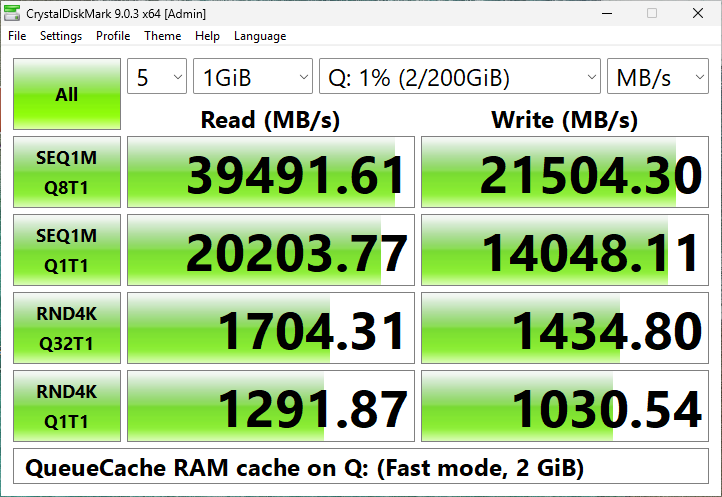
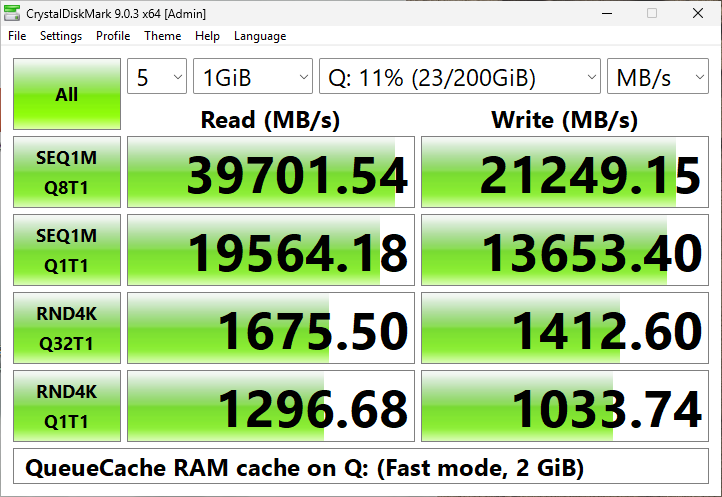
Record the plan 120 final regression and re-measure the README cache column
The final release-performance regression on 0.4.604.1 completed 11/11 phases
and 106/106 cases. CrystalDiskMark on Q: was re-measured in one session with
the new and the old read bookkeeping, together with the uncached column.

diff --git a/docs/PERFORMANCE_FINDINGS.md b/docs/PERFORMANCE_FINDINGS.md
@@ -201,6 +201,35 @@ Accepted and on by default from plan 120 (copy flags 7). Runs:
 per-block lookups that confirm a version is still current remain; removing them
 would change which reads are offloaded or which versions are touched.
 
+**CrystalDiskMark** (0.4.604.1, the README procedure, one session, MB/s). Copy
+flags 7 in three runs: SEQ1M Q8T1 read 38,945 / 39,702 / 39,707, SEQ1M Q1T1
+19,825 / 19,564 / 19,887. One run with the old bookkeeping (`lab-copy-flags Q: 3`)
+between them: 38,645 and 18,962. CrystalDiskMark therefore shows about +3% at
+Q8T1 and +4.5% at Q1T1; its five-second passes include file opening and the
+first touches, which the 10-second DiskSpd windows above exclude. The README
+cache column (39,702 read, run 2) matches the 0.4.476.1 run two days earlier
+(39,492): that earlier evening was simply faster, so cross-day CrystalDiskMark
+numbers say nothing about a change.
+
+**Final regression.** Signed 0.4.604.1 (final source; drivers loaded and
+Verifier off), lean `release-performance`, one command: **COMPLETED 11/11 phases,
+106/106 cases, 1 h 47 min 34 s, restored**, run
+`QueueCache-Campaign-20261011-223323-2aa3fb80bfdd4040ad56e7a601f3d09a`. All 118
+retained correctness sub-checks pass. Of 2,265 owned process exits one is
+non-zero: the first final inspection found Q: still writing back, and the
+plan-120 retry found it clean on the next attempt. Against PR #9's final run
+(0.4.583.1, the same day, same DiskSpd, same analysis): the RAM reference is
+unchanged within run-to-run variation (Direct 1M Q8T1 median 43,845 against
+44,215 MiB/s, Q1T1 24,434 against 24,668, Q2T4 36,067 against 37,818; the RAM-disk
+driver did not change). Cached 4K random reads at Q8 in the map-cost phase have a
+median of 381,055 against 369,516 IOPS (+3.1%); cache recall hits are within 1%.
+The write matrix's cached cells are 0.8–4.2% lower at Q1 and RND4K Q32 and between
+−0.6% and +2.2% at SEQ1M Q8. Plan 120 changed only the driver's read path, so
+these write differences are run-to-run variation (see the
+[measurement rules](#measurement-rules) on cross-run comparisons). The 30-minute
+sustained phase ran at 2,709–2,990 IOPS against PR #9's 1,415–2,837, following
+the Ceph storage below Q:.
+
 ## Which changes belong together
 
 | Stage | Changes retained | Evidence and limits |
@@ -749,7 +778,7 @@ running again. Private evidence and lab files remain preserved.
 
 ## Recorded verification time
 
-These selected completed runs total approximately **6 hours 2 minutes**. This
+These selected completed runs total approximately **8 hours 38 minutes**. This
 is measured run time, not a reconstruction of all engineering work or every
 earlier investigation. Installation/restarts, CI, coding, analysis, incomplete
 attempts and inactive conversation gaps add time. The NTFS/ReFS gap from 04:54
@@ -779,6 +808,13 @@ to 06:55 was not two hours spent executing that benchmark.
 | Plan-119 revision comparison, 18 windows | 8 min 52 s |
 | Plan-119 lifecycle checks, with / without Driver Verifier | 1 min 10 s / 55 s |
 | Final `release-performance` regression, 11 phases / 106 cases | 1 h 56 min 23 s |
+| Plan-120 cached-read attribution, 18 windows | 9 min 45 s |
+| Plan-120 RAM write reference, 36 windows | 6 min 43 s |
+| Plan-120 streaming-store comparison, 18 windows | 5 min 30 s |
+| Plan-120 read-bookkeeping comparison, 18 windows | 9 min 57 s |
+| Plan-120 Driver Verifier campaign with `stress-races`, 6 phases | 10 min 56 s |
+| Plan-120 `stress-races` without Verifier | 5 min 55 s |
+| Plan-120 final `release-performance` regression, 11 phases / 106 cases | 1 h 47 min 34 s |
 
 The original priority run's main scores total about six minutes within its nineteen-minute
 run. Preparation, residency proofs, warmup, worker/process ownership and
@@ -803,7 +839,10 @@ at start because Q: still had unwritten data, and the first final regression,
 which stopped after 33 minutes in the sustained phase: a 197 GB resident reread
 saw six background metadata reads (4.5 KiB) on Q:, most likely the Everything
 file indexer that had restarted at sign-in. Everything and Steam were closed and
-the complete regression rerun passed.
+the complete regression rerun passed. Plan 120 adds the first RAM write reference run
+(stopped by its oracle rewrite bug), 13 stress, Verifier and stale-data diagnosis
+runs that found and fixed the issues described under
+[correctness qualification](#correctness-qualification), and their recoveries.
 
 ## Current decisions and when to repeat tests
 

diff --git a/README.md b/README.md
@@ -76,7 +76,7 @@ machine's physical RAM.
 
 [CrystalDiskMark](https://crystalmark.info/en/software/crystaldiskmark/) 9.0.3,
 default test (1 GiB, 5 passes), the better of two runs per column. Both Q: columns:
-QueueCache 0.4.476.1; RAM disk column: QueueCache 0.4.583.1 (2026-10-11).
+QueueCache 0.4.604.1 (2026-10-12); RAM disk column: QueueCache 0.4.583.1 (2026-10-11).
 
 | Test machine | |
 |---|---|
@@ -91,18 +91,20 @@ QueueCache 0.4.476.1; RAM disk column: QueueCache 0.4.583.1 (2026-10-11).
 
 | MB/s | Q: without cache | Q: with 2 GiB Fast cache | 4 GiB RAM disk |
 |---|---:|---:|---:|
-| Sequential read (SEQ1M Q8T1) | 594 | 39,492 | 47,583 |
-| Sequential write (SEQ1M Q8T1) | 112 | 21,504 | 24,434 |
-| Random 4K read (RND4K Q1T1) | 9.0 | 1,292 | 1,657 |
-| Random 4K write (RND4K Q1T1) | 1.2 | 1,031 | 1,310 |
+| Sequential read (SEQ1M Q8T1) | 692 | 39,702 | 47,583 |
+| Sequential write (SEQ1M Q8T1) | 269 | 21,249 | 24,434 |
+| Random 4K read (RND4K Q1T1) | 19.6 | 1,297 | 1,657 |
+| Random 4K write (RND4K Q1T1) | 4.8 | 1,034 | 1,310 |
 
 The test file fits in RAM, so this shows what QueueCache does for data that is
 in its cache. Work larger than the cache runs at the drive's own speed, which on
-this network storage varies (earlier the same day it wrote 245 MB/s
-sequentially); both Q: columns were measured the same evening, without a
-restart in between. The RAM disk column was re-measured after RAM-disk reads
-became asynchronous: one program with eight reads queued now keeps every
-processor copying (SEQ1M Q8T1 read was 25,353 MB/s before).
+this network storage varies (two days earlier it read 594 and wrote 112 MB/s);
+both Q: columns were measured in one session, without a restart in between. In
+the same session the cache's previous read bookkeeping read 38,645 MB/s at
+SEQ1M Q8T1 and 18,962 MB/s at SEQ1M Q1T1 (now 39,702 and 19,564). The RAM disk
+column was re-measured after RAM-disk reads became asynchronous: one program
+with eight reads queued now keeps every processor copying (SEQ1M Q8T1 read was
+25,353 MB/s before).
 [How these were measured](docs/TESTING.md#7-readme-benchmark-crystaldiskmark).
 
 ## Getting started

diff --git a/docs/KNOWN_ISSUES.md b/docs/KNOWN_ISSUES.md
@@ -1,7 +1,7 @@
 # Known issues and verification gaps
 
 What is known to be limited or not yet proven in the current QueueCache build
-(0.4.583.1, 2026-10-11). Fixed defects are listed at the end with the build that
+(0.4.604.1, 2026-10-12). Fixed defects are listed at the end with the build that
 fixed them; do not report them as current bugs without a reproduction on the
 current driver. Performance results and decisions are in
 [performance findings](PERFORMANCE_FINDINGS.md); how things are tested is in
@@ -123,7 +123,7 @@ recovery: a faulted cache must be inspected and recovered explicitly.
 
 | What you would have seen | Fixed in |
 |---|---|
-| With "keep written data" off, a program re-reading a large file (reads over 1 MiB) while QueueCache was still writing it to disk could get an older version of a 256 KiB piece; the disk itself was always right | Plan 120 (found by the new `stress-races` suite) |
+| With "keep written data" off, a program re-reading a large file (reads over 1 MiB) while QueueCache was still writing it to disk could get an older version of a 256 KiB piece; the disk itself was always right | 0.4.601.1 (found by the new `stress-races` suite) |
 | One program reading a RAM disk topped out at about 26 GB/s whatever its queue depth (CrystalDiskMark SEQ1M Q8T1 25,353 MB/s) | 0.4.583.1: queued reads overlap, 47,583 MB/s ([findings](PERFORMANCE_FINDINGS.md#ram-disk-asynchronous-split-reads-accepted-pr-9)) |
 | Sequential cached reads up to 45% slower after drop-clean and refill | 0.4.431.1 chunk allocator; 0.4.434.1 prefetch and coalesced copies |
 | Programs on a cached C: crashed: page-in misses were kept from a buffer that can repeat a shared page (0.4.148.1-0.4.162.1) | 0.4.166.1 |
